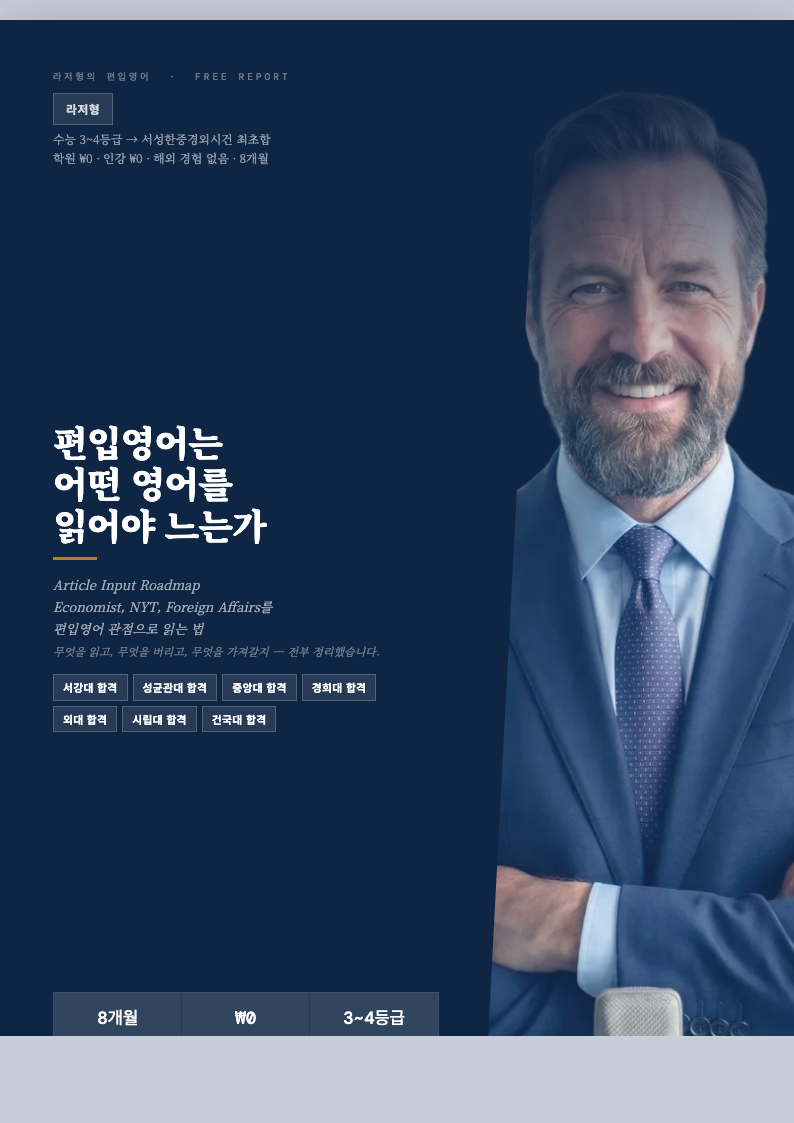
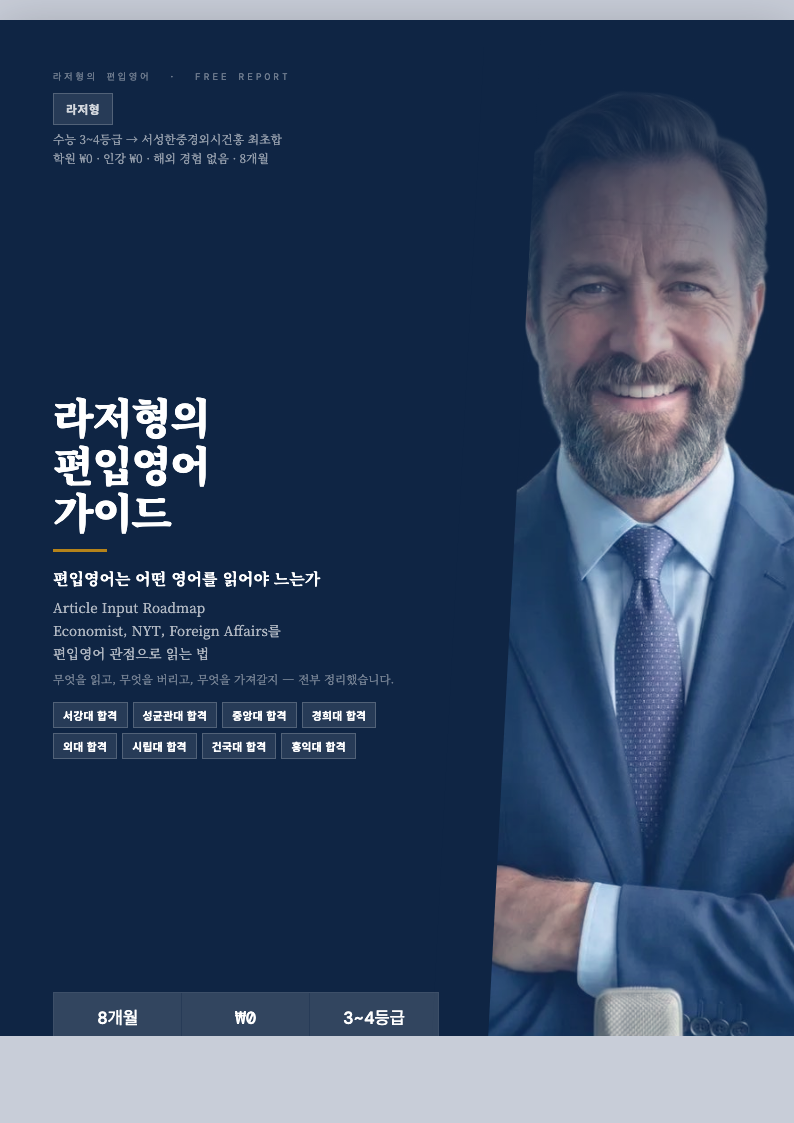
Update guidebook cover title

Changed region(s): [[0.0605, 0.3428, 0.4836, 0.6857]]

diff --git a/MVP landingpage/assets/guidebook.html b/MVP landingpage/assets/guidebook.html
@@ -121,16 +121,18 @@ body{
 }
 .cv-title{
   font-family:'Noto Serif KR',serif;
-  font-size:36px;font-weight:900;
-  line-height:1.15;color:white;
-  letter-spacing:-1px;margin-bottom:12px;
+  font-size:42px;font-weight:900;
+  line-height:1.12;color:white;
+  letter-spacing:-1.5px;margin-bottom:14px;
 }
-.cv-bar{width:44px;height:3px;background:var(--gold);margin-bottom:14px;}
+.cv-bar{width:54px;height:3px;background:var(--gold);margin-bottom:15px;}
 .cv-tagline{
   font-family:'Noto Serif KR',serif;
-  font-size:12.5px;color:rgba(255,255,255,0.6);
-  font-style:italic;line-height:1.7;
+  font-size:13.5px;color:rgba(255,255,255,0.68);
+  font-style:normal;line-height:1.7;
 }
+.cv-tagline strong{display:block;color:white;font-size:16px;line-height:1.55;margin-bottom:5px;}
+.cv-tagline .cv-small{display:block;color:rgba(255,255,255,0.42);font-size:11.5px;margin-top:5px;}
 .cv-badges{display:flex;flex-wrap:wrap;gap:5px;margin-top:12px;position:relative;z-index:3;}
 .cv-badge{
   background:rgba(255,255,255,0.1);
@@ -340,7 +342,7 @@ body{font-size:13.5px;}
 .cv-eyebrow{font-size:9.5px;}
 .cv-name-tag{font-size:11.8px;}
 .cv-headline{font-size:11.8px;}
-.cv-tagline{font-size:13px;}
+.cv-tagline{font-size:13.5px;}
 .cv-badge{font-size:10.8px;}
 .cv-stat-n{font-size:17.5px;}
 .cv-stat-l{font-size:9px;}
@@ -411,22 +413,23 @@ tbody td{line-height:1.55;}
       <div>
         <div class="cv-eyebrow">라저형의 편입영어 &nbsp;·&nbsp; Free Report</div>
         <div class="cv-name-tag">라저형</div>
-        <div class="cv-headline">수능 3~4등급 → 서성한중경외시건 최초합<br>학원 ₩0 · 인강 ₩0 · 해외 경험 없음 · 8개월</div>
+        <div class="cv-headline">수능 3~4등급 → 서성한중경외시건홍 최초합<br>학원 ₩0 · 인강 ₩0 · 해외 경험 없음 · 8개월</div>
       </div>
       <div class="cv-title-wrap" style="margin-top:8mm;">
-        <div class="cv-title">편입영어는<br>어떤 영어를<br>읽어야 느는가</div>
+        <div class="cv-title">라저형의<br>편입영어<br>가이드</div>
         <div class="cv-bar"></div>
         <div class="cv-tagline">
+          <strong>편입영어는 어떤 영어를 읽어야 느는가</strong>
           Article Input Roadmap<br>
           Economist, NYT, Foreign Affairs를<br>
           편입영어 관점으로 읽는 법<br>
-          <span style="color:rgba(255,255,255,0.4);font-size:11px;">무엇을 읽고, 무엇을 버리고, 무엇을 가져갈지 — 전부 정리했습니다.</span>
+          <span class="cv-small">무엇을 읽고, 무엇을 버리고, 무엇을 가져갈지 — 전부 정리했습니다.</span>
         </div>
         <div class="cv-badges">
           <span class="cv-badge">서강대 합격</span><span class="cv-badge">성균관대 합격</span>
           <span class="cv-badge">중앙대 합격</span><span class="cv-badge">경희대 합격</span>
           <span class="cv-badge">외대 합격</span><span class="cv-badge">시립대 합격</span>
-          <span class="cv-badge">건국대 합격</span>
+          <span class="cv-badge">건국대 합격</span><span class="cv-badge">홍익대 합격</span>
         </div>
       </div>
       <div>